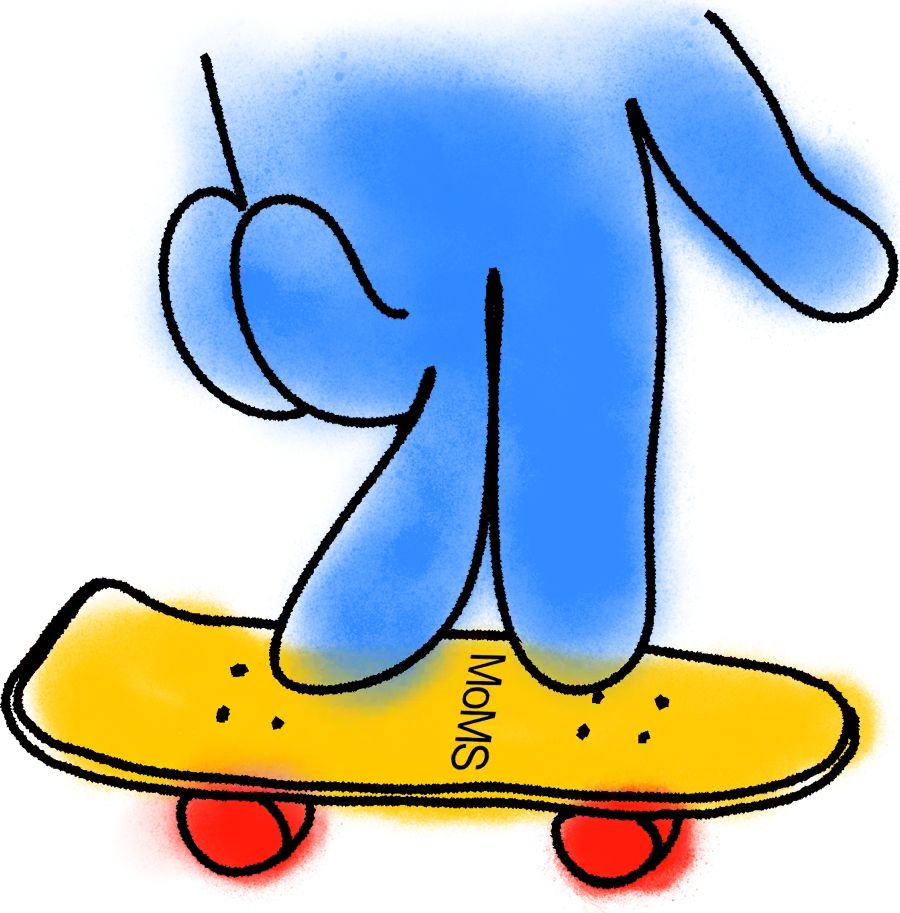
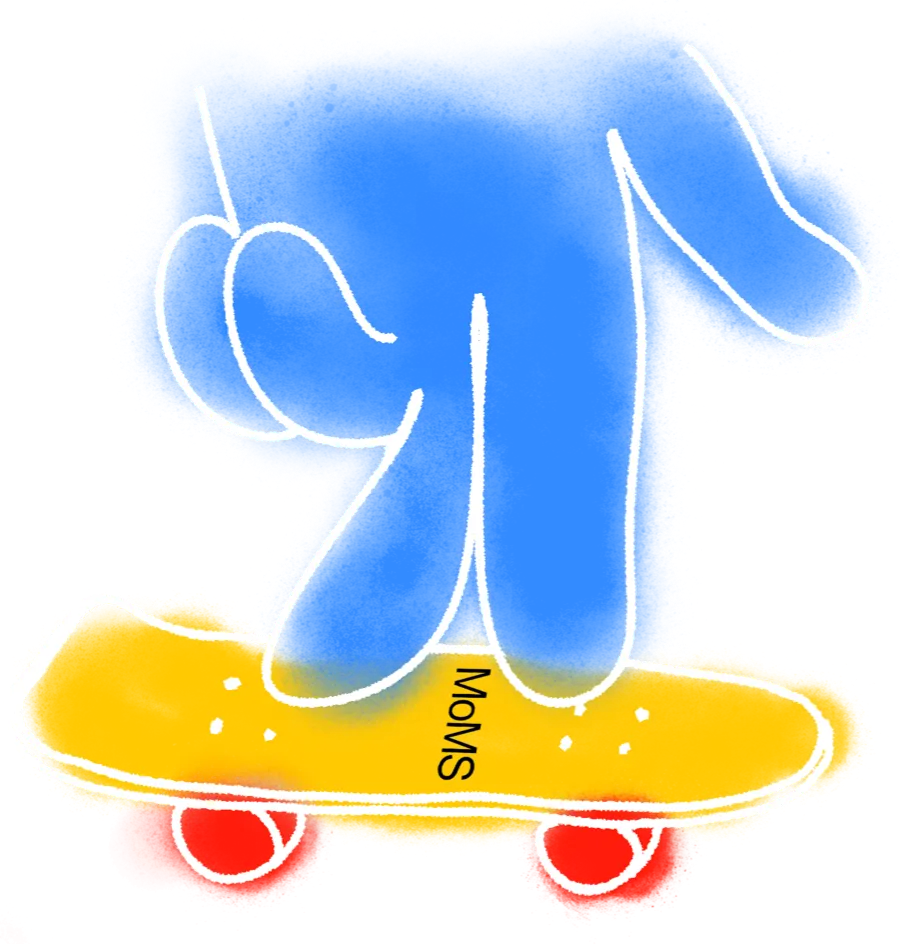
Footer drawing: white logomoms version; menu drawing: new momsfingers.svg

diff --git a/site.js b/site.js
@@ -122,7 +122,7 @@ window.momsKeepScroll = function (box, fn, anchor) {
     '</nav>' +
     '<img class="mnav-big" src="/title-wm.svg" alt="" width="609" height="140">' +
     '<p class="mnav-credit">Designed, curated and developed by <a href="https://ryanforprez.org" target="_blank" rel="noopener">Ryan Stewart</a> view collection <a href="/u/r" data-mine>here</a></p>' +
-    '<img class="mnav-fingers" src="/nav-fingers.svg?v=161534f5" alt="" width="535" height="525">';
+    '<img class="mnav-fingers" src="/nav-fingers.svg?v=f9aa6328" alt="" width="535" height="525">';
   document.body.appendChild(panel);
 
   var big = panel.querySelector(".mnav-big"), smallImg = tl.querySelector("img"), isOpen = false, timer;
@@ -172,7 +172,7 @@ window.momsKeepScroll = function (box, fn, anchor) {
   var footer = document.createElement("footer");
   footer.className = "site-footer";
   footer.innerHTML =
-    '<img class="fb-logo" src="/footer-character.webp?v=1c0c5b53" alt="" width="900" height="913">' +
+    '<img class="fb-logo" src="/footer-character.webp?v=3c009a1c" alt="" width="900" height="944">' +
     '<p class="fb-credit">Designed, curated and developed by <a href="https://ryanforprez.org" target="_blank" rel="noopener">Ryan Stewart</a> view his collection <a href="/u/r">here</a></p>' +
     '<nav class="fb-links" aria-label="Site">' +
       '<div><a href="/">Museum</a><a href="/?order=added">Recently Added</a><span class="fb-soon">Featured Setups</span></div>' +

diff --git a/privacy.html b/privacy.html
@@ -44,6 +44,6 @@
     <p class="auth-note">Email <a class="auth-link" href="mailto:contact@museumofminiskateboards.org">contact@museumofminiskateboards.org</a> and we will delete your account, collection and photos.</p>
   </main>
   <script src="moms-config.js?v=e1dbbd27"></script>
-  <script src="site.js?v=176e95f8"></script>
+  <script src="site.js?v=ea6fe7d0"></script>
 </body>
 </html>

diff --git a/account.html b/account.html
@@ -48,6 +48,6 @@
   <script src="https://cdn.jsdelivr.net/npm/@supabase/supabase-js@2.45.4/dist/umd/supabase.js"></script>
   <script src="moms-config.js?v=e1dbbd27"></script>
   <script src="account.js?v=e25febbd"></script>
-  <script src="site.js?v=176e95f8"></script>
+  <script src="site.js?v=ea6fe7d0"></script>
 </body>
 </html>

diff --git a/signin.html b/signin.html
@@ -95,6 +95,6 @@
   <script src="https://cdn.jsdelivr.net/npm/@supabase/supabase-js@2.45.4/dist/umd/supabase.js"></script>
   <script src="moms-config.js?v=e1dbbd27"></script>
   <script src="signin.js?v=908d57e6"></script>
-  <script src="site.js?v=176e95f8"></script>
+  <script src="site.js?v=ea6fe7d0"></script>
 </body>
 </html>

diff --git a/board.html b/board.html
@@ -32,6 +32,6 @@
   <script src="https://cdn.jsdelivr.net/npm/@supabase/supabase-js@2.45.4/dist/umd/supabase.js"></script>
   <script src="moms-config.js?v=e1dbbd27"></script>
   <script src="board.js?v=b484508b"></script>
-  <script src="site.js?v=176e95f8"></script>
+  <script src="site.js?v=ea6fe7d0"></script>
 </body>
 </html>

diff --git a/collection.html b/collection.html
@@ -35,6 +35,6 @@
   <script src="moms-config.js?v=e1dbbd27"></script>
   <script src="script.js?v=9814e8fc"></script>
   <script src="mobile-list.js?v=9e393d1b"></script>
-  <script src="site.js?v=176e95f8"></script>
+  <script src="site.js?v=ea6fe7d0"></script>
 </body>
 </html>

diff --git a/profile.html b/profile.html
@@ -39,6 +39,6 @@
   <script src="/photo.js?v=29b3da3f"></script>
   <script src="/profile.js?v=b6fe8923"></script>
   <script src="/mobile-list.js?v=9e393d1b"></script>
-  <script src="/site.js?v=176e95f8"></script>
+  <script src="/site.js?v=ea6fe7d0"></script>
 </body>
 </html>

diff --git a/users.html b/users.html
@@ -35,6 +35,6 @@
   <script src="moms-config.js?v=e1dbbd27"></script>
   <script src="users.js?v=3db82971"></script>
   <script src="mobile-list.js?v=9e393d1b"></script>
-  <script src="site.js?v=176e95f8"></script>
+  <script src="site.js?v=ea6fe7d0"></script>
 </body>
 </html>

diff --git a/decks/index.html b/decks/index.html
@@ -53,6 +53,6 @@
   <script src="museum.js?v=5c0fd694"></script>
   <script src="refine.js?v=b7e32693"></script>
   <script src="mobile-list.js?v=9e393d1b"></script>
-  <script src="site.js?v=176e95f8"></script>
+  <script src="site.js?v=ea6fe7d0"></script>
 </body>
 </html>

diff --git a/index.html b/index.html
@@ -51,6 +51,6 @@
   <script src="museum.js?v=5c0fd694"></script>
   <script src="refine.js?v=b7e32693"></script>
   <script src="mobile-list.js?v=9e393d1b"></script>
-  <script src="site.js?v=176e95f8"></script>
+  <script src="site.js?v=ea6fe7d0"></script>
 </body>
 </html>

diff --git a/misc/index.html b/misc/index.html
@@ -53,6 +53,6 @@
   <script src="museum.js?v=5c0fd694"></script>
   <script src="refine.js?v=b7e32693"></script>
   <script src="mobile-list.js?v=9e393d1b"></script>
-  <script src="site.js?v=176e95f8"></script>
+  <script src="site.js?v=ea6fe7d0"></script>
 </body>
 </html>

diff --git a/obstacles/index.html b/obstacles/index.html
@@ -53,6 +53,6 @@
   <script src="museum.js?v=5c0fd694"></script>
   <script src="refine.js?v=b7e32693"></script>
   <script src="mobile-list.js?v=9e393d1b"></script>
-  <script src="site.js?v=176e95f8"></script>
+  <script src="site.js?v=ea6fe7d0"></script>
 </body>
 </html>
